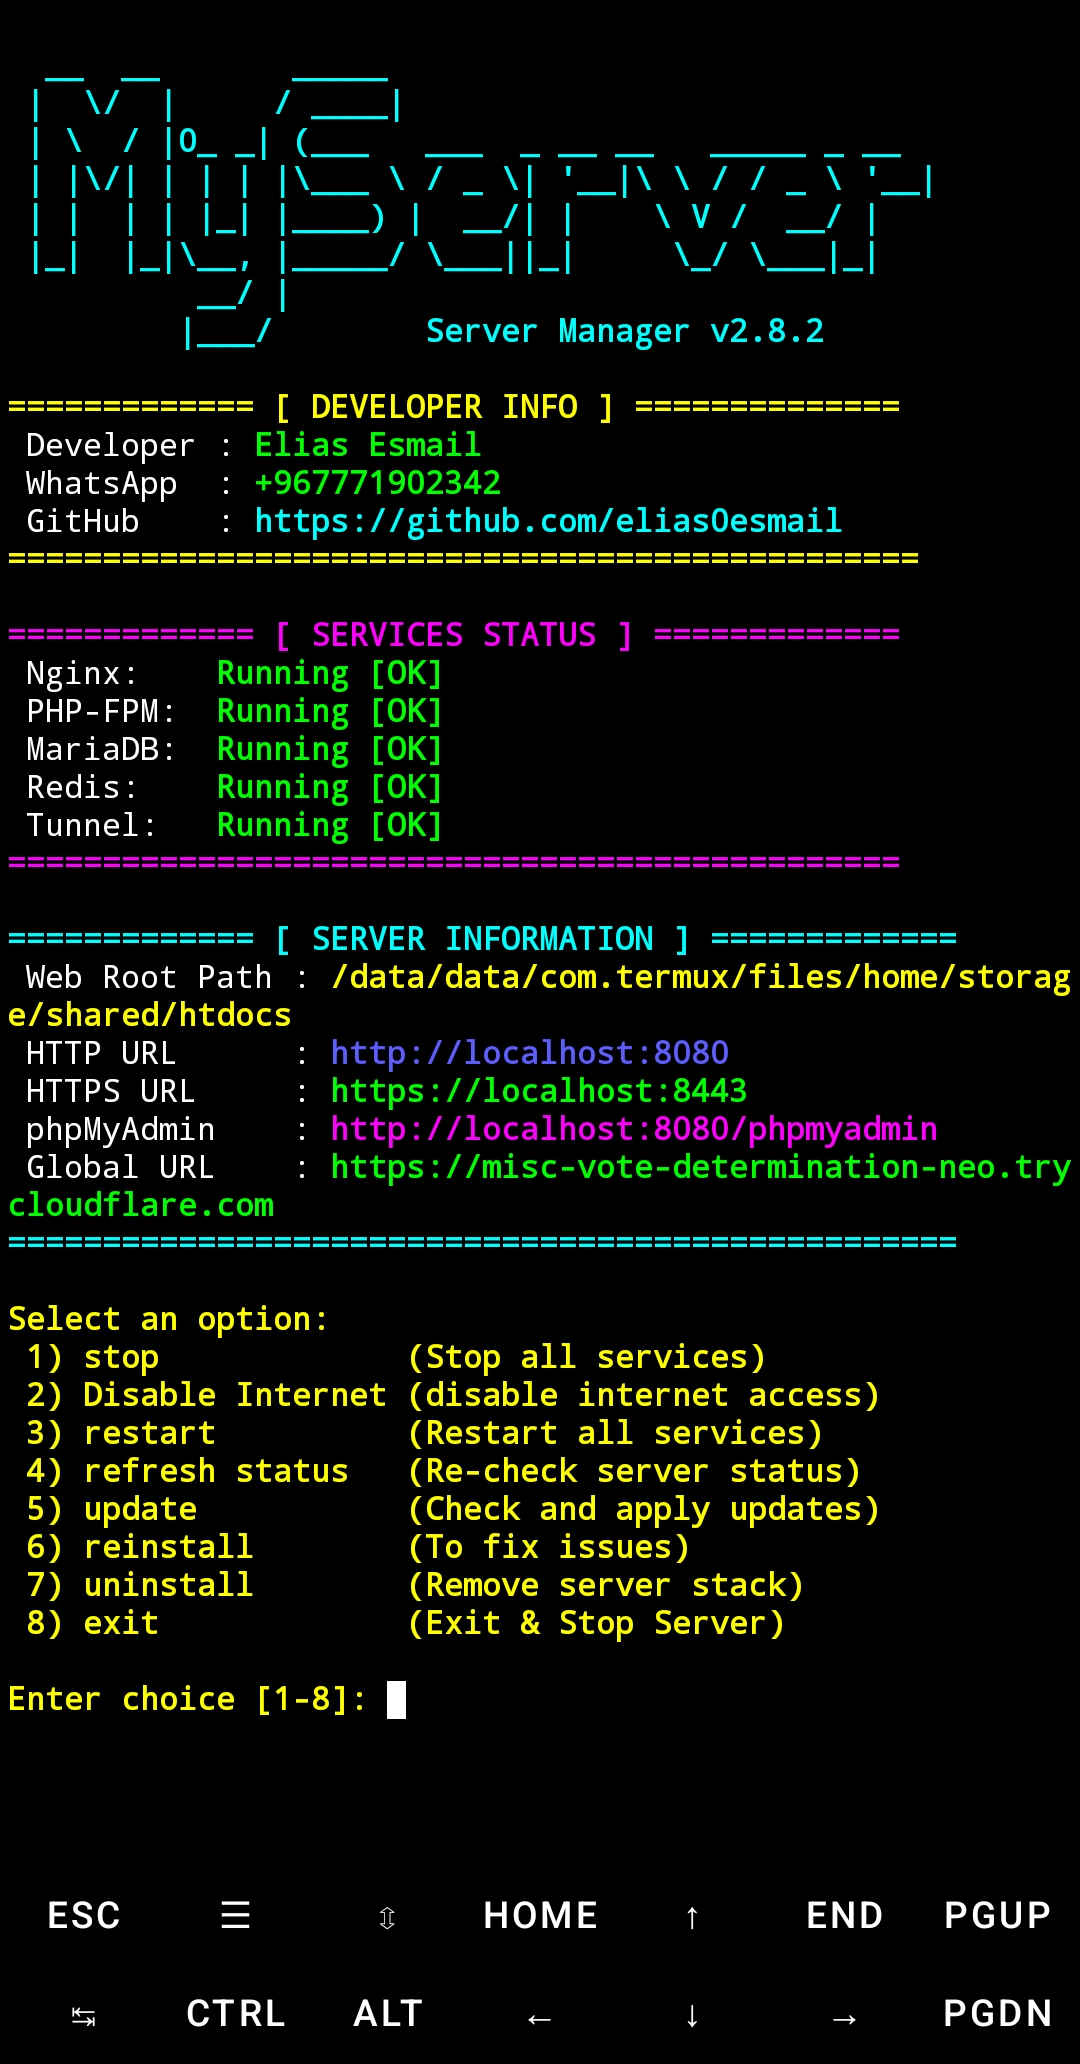
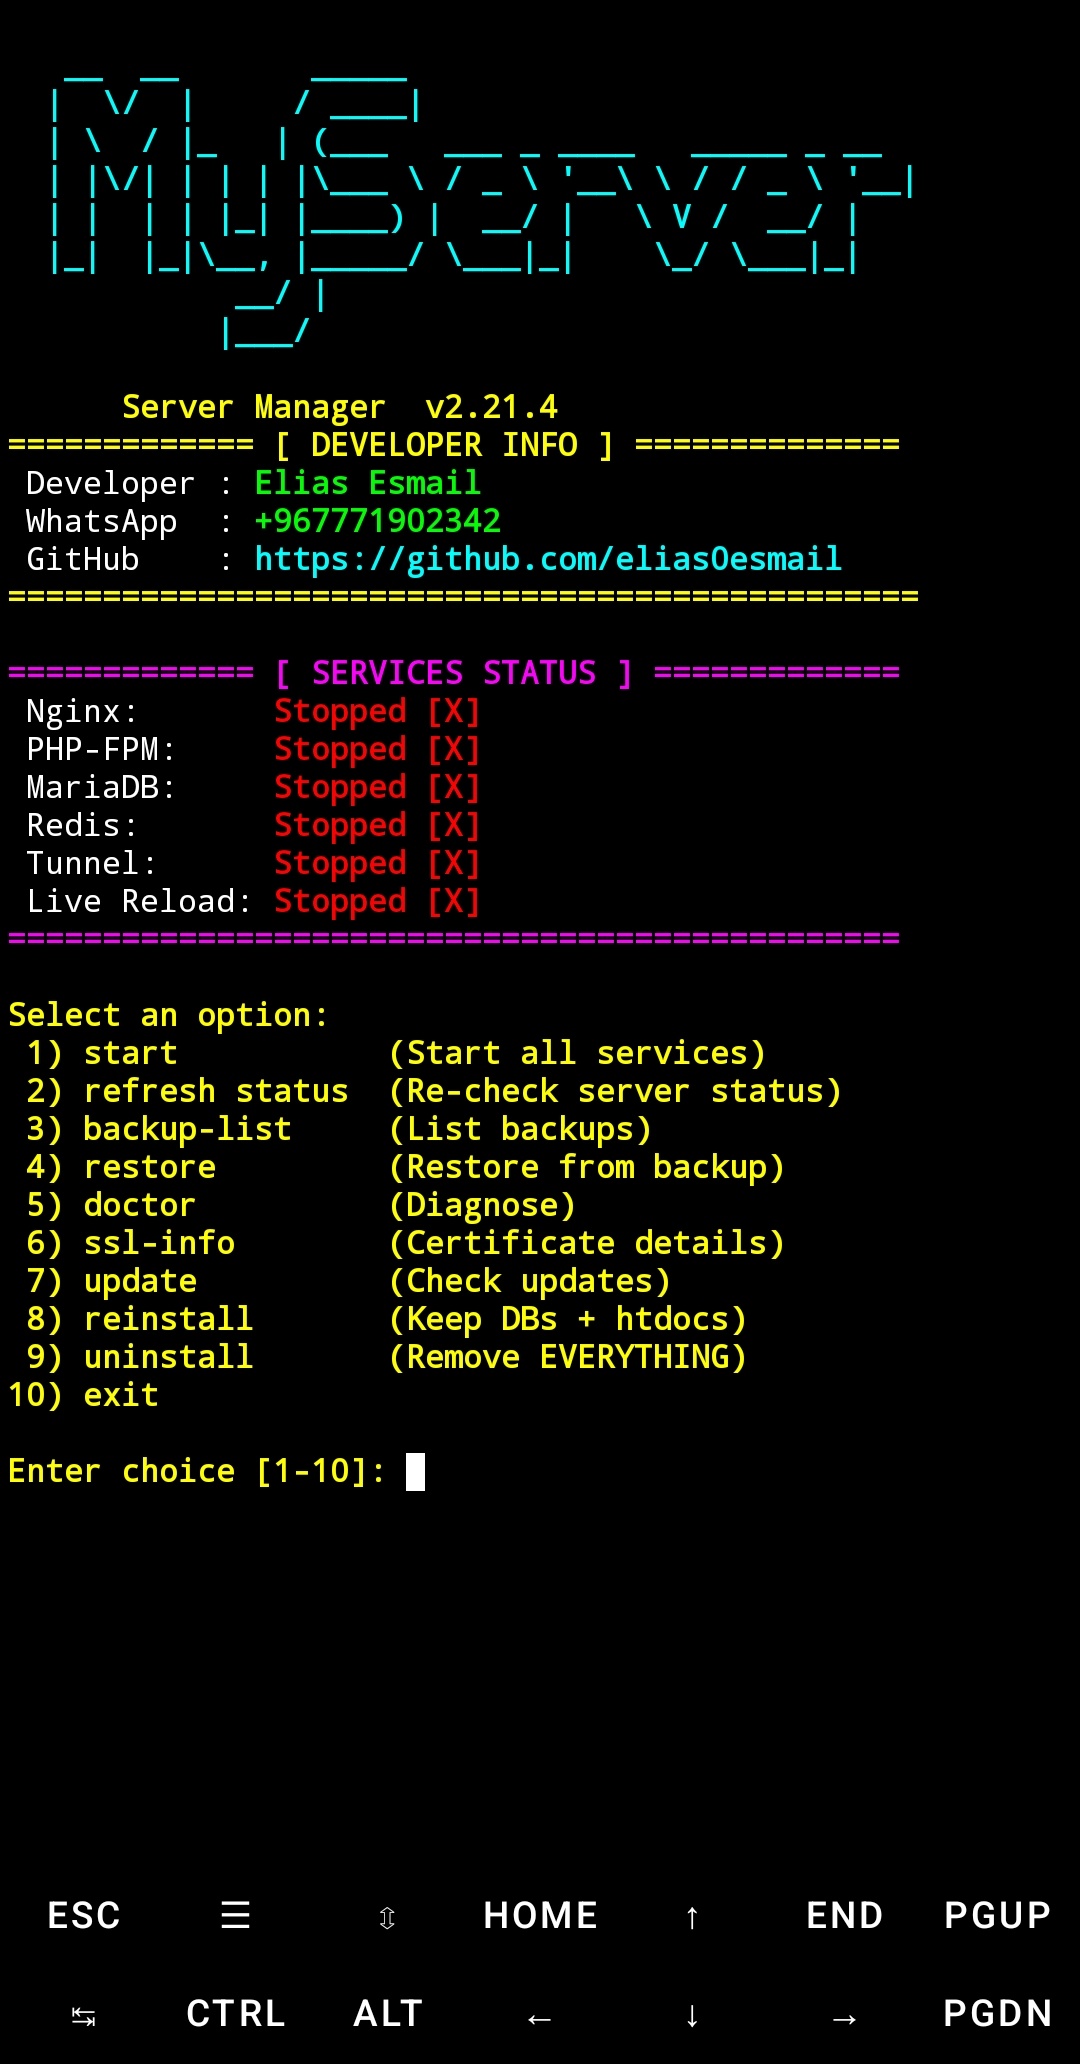
Release (v2.21.4) fix some issues

diff --git a/myserver/features/backup.py b/myserver/features/backup.py
@@ -2,10 +2,20 @@
 
 Archive layout:
     manifest.json
-    htdocs/...
-    mysql/all-databases.sql
-    ssl/{server.crt,server.key,custom.crt?,custom.key?}
+    htdocs/...                                  (user data + phpMyAdmin config)
+    mysql/all-databases.sql                     (user databases only)
+    ssl/{server.crt,server.key,custom.?}        (SSL certificates)
     config/{nginx.conf,www.conf,php.ini,my.cnf}
+
+Design notes:
+    * phpMyAdmin is treated as a *tool*, not user data. Its binary tree
+      (vendor/, libraries/, setup/, etc.) is excluded from backups to keep
+      archives small. Only htdocs/phpmyadmin/config.inc.php is preserved.
+      On restore, phpMyAdmin is reinstalled fresh from upstream, then the
+      saved config.inc.php is written back. This guarantees the latest
+      secure version after every restore.
+    * System databases (mysql, information_schema, ...) are excluded from
+      the dump so restores do not clobber server users.
 """
 from __future__ import annotations
 
@@ -24,6 +34,10 @@ from ..services import mariadb
 
 MANIFEST_VERSION = 1
 SYSTEM_DBS = ("mysql", "information_schema", "performance_schema", "sys")
+
+# phpMyAdmin paths (relative to htdocs)
+PMA_DIRNAME   = "phpmyadmin"
+PMA_KEEP_ONLY = {"config.inc.php"}   # ← only this file survives backup
 
 
 # ---------------------------------------------------------------------------
@@ -53,6 +67,42 @@ def _list_user_databases() -> list[str]:
 
 
 # ---------------------------------------------------------------------------
+def _ignore_for_backup(dirpath: str, names: list[str]) -> set[str]:
+    """Custom ignore filter for `shutil.copytree`.
+
+    Rules:
+      * Skip junk everywhere: .git, node_modules, caches, temp dirs, *.log.
+      * Inside htdocs/phpmyadmin/: keep only config.inc.php, skip everything
+        else (vendor/, libraries/, setup/, tmp/, ... — will be reinstalled).
+    """
+    ignored: set[str] = set()
+
+    # --- junk across the tree ---
+    for n in names:
+        if n in (".git", "node_modules", "cache", ".cache",
+                 ".myserver-cache", "tmp", "temp"):
+            ignored.add(n)
+        elif n.endswith(".log"):
+            ignored.add(n)
+
+    # --- special handling for htdocs/phpmyadmin/ ---
+    try:
+        rel = os.path.relpath(dirpath, paths.HTDOCS_DIR)
+    except ValueError:
+        rel = ""
+
+    # Normalize to forward slashes and strip leading './'
+    rel = rel.replace(os.sep, "/").lstrip("./")
+
+    if rel == PMA_DIRNAME:
+        for n in names:
+            if n not in PMA_KEEP_ONLY:
+                ignored.add(n)
+
+    return ignored
+
+
+# ---------------------------------------------------------------------------
 def create(name: str | None = None) -> Path | None:
     paths.BACKUP_DIR.mkdir(parents=True, exist_ok=True)
     ts = _timestamp()
@@ -65,18 +115,26 @@ def create(name: str | None = None) -> Path | None:
     ui.step(f"Creating backup: {out.name}")
     tmp = Path(tempfile.mkdtemp(prefix="myserver-backup-"))
     db_ok = True
+    pma_cfg_backed_up = False
+
     try:
         # ---- htdocs ----
         ui.info("Copying htdocs...")
         if paths.HTDOCS_DIR.exists():
             try:
                 shutil.copytree(
-                    paths.HTDOCS_DIR, tmp / "htdocs", symlinks=False,
-                    ignore=shutil.ignore_patterns(
-                        "*.log", ".git", "node_modules", "vendor",
-                        "cache", ".cache", "tmp"))
+                    paths.HTDOCS_DIR,
+                    tmp / "htdocs",
+                    symlinks=False,
+                    ignore=_ignore_for_backup,
+                )
             except Exception as e:
                 ui.warn(f"htdocs copy partial: {e}")
+
+        # ---- phpMyAdmin config check ----
+        pma_cfg_backed_up = (tmp / "htdocs" / PMA_DIRNAME / "config.inc.php").exists()
+        if pma_cfg_backed_up:
+            ui.info("phpMyAdmin: config saved (binary will be reinstalled on restore).")
 
         # ---- mysql dump ----
         ui.info("Dumping databases...")
@@ -92,7 +150,7 @@ def create(name: str | None = None) -> Path | None:
                 ui.info("No user databases to dump.")
                 dump_file.write_text("-- No user databases\n")
             else:
-                dump_bin = helpers.mysql_dump()   # ← الإصلاح
+                dump_bin = helpers.mysql_dump()
                 cmd = [
                     dump_bin,
                     "-u", "root",
@@ -129,10 +187,10 @@ def create(name: str | None = None) -> Path | None:
         cfg_dir = tmp / "config"
         cfg_dir.mkdir(exist_ok=True)
         for src, dst in (
-            (paths.NGINX_CONF,          "nginx.conf"),
-            (paths.PHP_FPM_CONF,        "www.conf"),
+            (paths.NGINX_CONF,           "nginx.conf"),
+            (paths.PHP_FPM_CONF,         "www.conf"),
             (helpers.get_php_ini_path(), "php.ini"),
-            (paths.MY_CNF_FILE,         "my.cnf"),
+            (paths.MY_CNF_FILE,          "my.cnf"),
         ):
             try:
                 if src.exists():
@@ -147,10 +205,11 @@ def create(name: str | None = None) -> Path | None:
             "myserver_version": _read_version(),
             "htdocs_path": str(paths.HTDOCS_DIR),
             "includes": {
-                "htdocs": (tmp / "htdocs").exists(),
-                "mysql":  dump_file.exists() and dump_file.stat().st_size > 100,
-                "ssl":    any(ssl_dir.iterdir()),
-                "config": True,
+                "htdocs":          (tmp / "htdocs").exists(),
+                "phpmyadmin_cfg":  pma_cfg_backed_up,
+                "mysql":           dump_file.exists() and dump_file.stat().st_size > 100,
+                "ssl":             any(ssl_dir.iterdir()),
+                "config":          True,
             },
             "database_ok": db_ok,
         }
@@ -166,6 +225,7 @@ def create(name: str | None = None) -> Path | None:
         if not db_ok:
             ui.warn("Note: database dump had warnings — verify the archive.")
         return out
+
     except Exception as e:
         ui.err(f"Backup failed: {e}")
         try:
@@ -258,6 +318,14 @@ def restore(archive_path: str, force: bool = False) -> bool:
         services_ctl.stop_all(quiet=True)
 
         # ---- htdocs ----
+        saved_pma_cfg_text: str | None = None
+        pma_cfg_in_archive = tmp / "htdocs" / PMA_DIRNAME / "config.inc.php"
+        if pma_cfg_in_archive.exists():
+            try:
+                saved_pma_cfg_text = pma_cfg_in_archive.read_text()
+            except Exception as e:
+                ui.warn(f"Could not read saved phpMyAdmin config: {e}")
+
         if (tmp / "htdocs").exists():
             ui.info("Restoring htdocs...")
             if paths.HTDOCS_DIR.exists():
@@ -310,12 +378,35 @@ def restore(archive_path: str, force: bool = False) -> bool:
                 else:
                     ui.ok("Databases restored.")
 
-        # fix permissions
+        # ---- fix permissions ----
         from ..services import nginx
         nginx.enforce_htdocs_permissions(paths.HTDOCS_DIR)
 
+        # ---- phpMyAdmin reinstall (not stored in backup) ----
+        if saved_pma_cfg_text:
+            ui.step("Reinstalling phpMyAdmin fresh (tool, not user data)...")
+            try:
+                from . import quickstart
+                # read db password from freshly restored ~/.my.cnf
+                db_pass = mariadb.read_password_from_my_cnf()
+                ok = quickstart.install_phpmyadmin(paths.HTDOCS_DIR, db_pass)
+                if ok:
+                    # overwrite the auto-generated config with the saved one
+                    target_cfg = paths.HTDOCS_DIR / PMA_DIRNAME / "config.inc.php"
+                    try:
+                        target_cfg.write_text(saved_pma_cfg_text)
+                        ui.ok("phpMyAdmin config.inc.php restored from backup.")
+                    except Exception as e:
+                        ui.warn(f"Could not restore saved phpMyAdmin config: {e}")
+                else:
+                    ui.warn("phpMyAdmin reinstall failed — reinstall later:")
+                    ui.info("  myserver → 5 → 4   (or 'myserver quickstart')")
+            except Exception as e:
+                ui.warn(f"phpMyAdmin reinstall error: {e}")
+
         ui.ok("Restore complete. Start the server with: myserver start")
         return True
+
     except Exception as e:
         ui.err(f"Restore failed: {e}")
         return False
@@ -323,6 +414,7 @@ def restore(archive_path: str, force: bool = False) -> bool:
         shutil.rmtree(tmp, ignore_errors=True)
 
 
+# ---------------------------------------------------------------------------
 def delete(archive_path: str) -> bool:
     p = Path(archive_path).expanduser()
     if not p.exists():
@@ -338,6 +430,7 @@ def delete(archive_path: str) -> bool:
         ui.err(f"Delete failed: {e}")
         return False
 
+
 # ---------------------------------------------------------------------------
 def choose_and_restore() -> bool:
     """Interactive restore: show backups via fzf (arrow keys), then restore."""
@@ -347,7 +440,6 @@ def choose_and_restore() -> bool:
         ui.info("Create one first:  myserver backup")
         return False
 
-    # build human-readable option labels (index-aligned with `backups`)
     options: list[str] = []
     for b in backups:
         try:
@@ -364,7 +456,7 @@ def choose_and_restore() -> bool:
     idx = ui.choose_option(
         "Select a backup to restore",
         options,
-        default=0)          # newest backup is at index 0
+        default=0)
 
     # --- Cancel ---
     if idx == len(options) - 1:

diff --git a/README.md b/README.md
@@ -6,7 +6,9 @@ myserver is your own localhost server stack for Android. You can set up Nginx, P
 <p align="center">
 <img src="https://github.com/elias0esmail/termux-web-server/blob/main/Screenshot.jpg"/>
 </p>
-
+<p align="center">
+<img src="https://github.com/elias0esmail/termux-web-server/blob/main/Screenshot1.jpg"/>
+</p>
 <br/><br/><br/>
 
 # How to use ?
